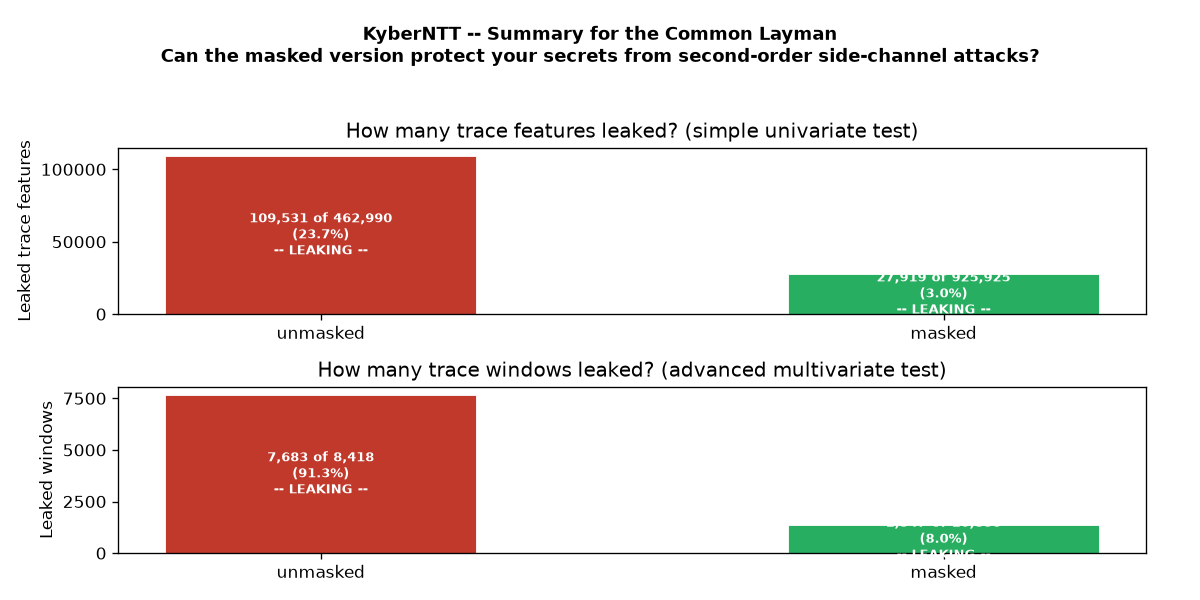
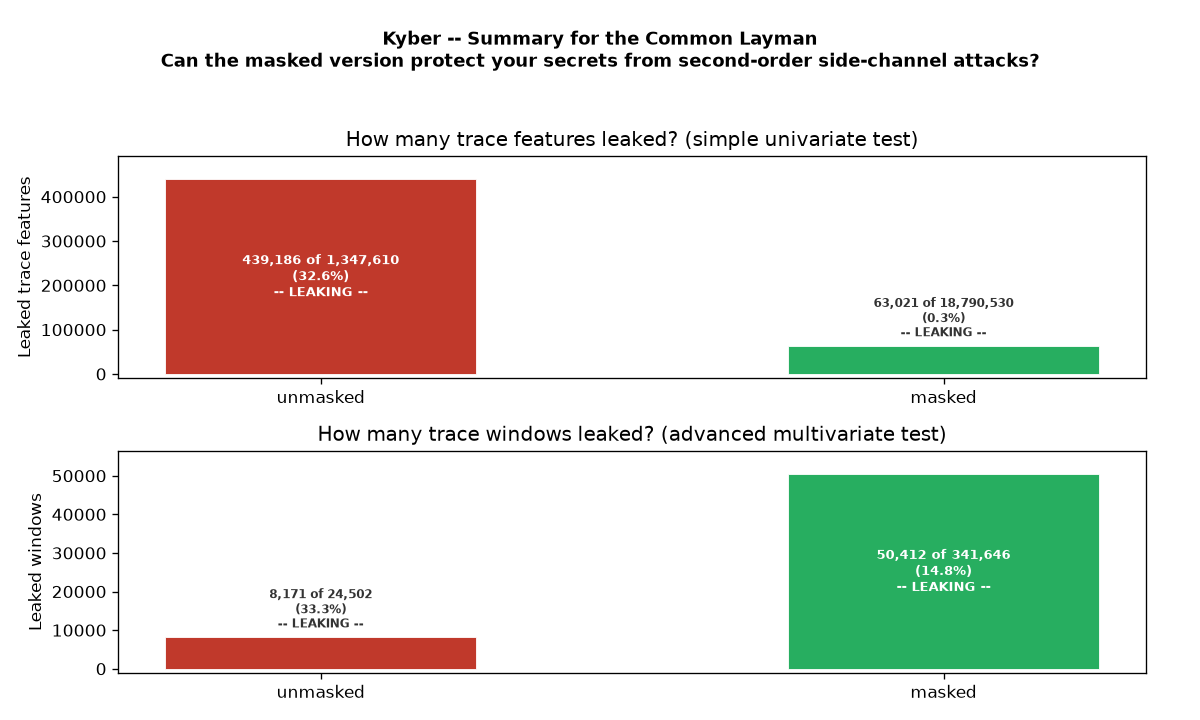
Fix T² plot threshold and summary label layout
- Correct f_critical df2 parameter in make_plots and --plot-second-order-t2:
  use df2=nu (matching count_second_order_multivariate_leakages) instead of
  df2=max(nu-d+1,1) which gave an astronomically high threshold (2.4e+12 vs
  correct 1.05e+03)
- Summary figure: raise inside-bar text threshold to 25%, add white bbox with
  zorder=10 for short-bar labels, increase figure height to 6 inches
- Regenerate all three plots from tvla_stats.npz

diff --git a/tvla_analysis.py b/tvla_analysis.py
@@ -348,7 +348,7 @@ def _make_summary_figure(results, args):
     matplotlib.use("Agg")
     import matplotlib.pyplot as plt
 
-    fig, axes = plt.subplots(2, 1, figsize=(10, 5), sharex=False)
+    fig, axes = plt.subplots(2, 1, figsize=(10, 6), sharex=False)
 
     versions = ["unmasked", "masked"]
     colors = ["#c0392b", "#27ae60"]
@@ -357,6 +357,9 @@ def _make_summary_figure(results, args):
 
     # ---- Panel A: leaked features/points ----
     ax = axes[0]
+    all_uni = [r["univariate"] for r in results.values()]
+    max_uni = max(all_uni) if all_uni else 1
+    barbox = dict(facecolor="white", edgecolor="none", alpha=0.85, pad=1)
     for i, name in enumerate(versions):
         r = results[name]
         n_total = r["t_stats"].shape[0]
@@ -364,11 +367,16 @@ def _make_summary_figure(results, args):
         pct = leaked / n_total * 100 if n_total > 0 else 0
         yval = leaked
         ax.bar(name, yval, color=colors[i], width=0.5, edgecolor="white", linewidth=0.5)
-        ax.text(i, yval / 2,
-                "{:,} of {:,}\n({:.1f}%)\n-- {} --".format(
-                    int(leaked), n_total, pct, "LEAKING" if leaked > 0 else "SAFE"),
-                ha="center", va="center", fontsize=8, color="white" if leaked > 0 else "black", fontweight="bold")
-    ax.set_ylim(0, None)
+        label = "{:,} of {:,}\n({:.1f}%)\n-- {} --".format(
+            int(leaked), n_total, pct, "LEAKING" if leaked > 0 else "SAFE")
+        if yval > max_uni * 0.25:
+            ax.text(i, yval / 2, label, ha="center", va="center", fontsize=8,
+                    color="white", fontweight="bold")
+        else:
+            ax.text(i, yval + max_uni * 0.03, label, ha="center", va="bottom", fontsize=7,
+                    color="#333333", fontweight="bold", bbox=barbox, zorder=10)
+    ymax_a = max(max_uni * 1.12, 1)
+    ax.set_ylim(-ymax_a * 0.02, ymax_a)
     if args.order == 2:
         ax.set_ylabel("Leaked trace features")
         ax.set_title("How many trace features leaked? (simple univariate test)")
@@ -379,18 +387,24 @@ def _make_summary_figure(results, args):
     # ---- Panel B: leaked windows ----
     ax = axes[1]
     max_windows = max(r["n_windows"] for r in results.values())
+    all_mv = [r["multivariate"] for r in results.values()]
+    max_mv = max(all_mv) if all_mv else 1
     for i, name in enumerate(versions):
         r = results[name]
         leaked = r["multivariate"]
         total_w = r["n_windows"]
         pct = leaked / total_w * 100 if total_w > 0 else 0
         ax.bar(name, leaked, color=colors[i], width=0.5, edgecolor="white", linewidth=0.5)
-        ax.text(i, leaked / 2 if leaked > 0 else max_windows * 0.05,
-                "{:,} of {:,}\n({:.1f}%)\n-- {} --".format(
-                    int(leaked), total_w, pct, "LEAKING" if leaked > 0 else "SAFE"),
-                ha="center", va="center", fontsize=8,
-                color="white" if leaked > 0 else "black", fontweight="bold")
-    ax.set_ylim(0, None)
+        label = "{:,} of {:,}\n({:.1f}%)\n-- {} --".format(
+            int(leaked), total_w, pct, "LEAKING" if leaked > 0 else "SAFE")
+        if leaked > max_mv * 0.25:
+            ax.text(i, leaked / 2, label, ha="center", va="center", fontsize=8,
+                    color="white", fontweight="bold")
+        else:
+            ax.text(i, leaked + max_mv * 0.03, label, ha="center", va="bottom", fontsize=7,
+                    color="#333333", fontweight="bold", bbox=barbox, zorder=10)
+    ymax_b = max(max_mv * 1.12, 1)
+    ax.set_ylim(-ymax_b * 0.02, ymax_b)
     ax.set_ylabel("Leaked windows")
     ax.set_xlabel("")
     if args.order == 2:
@@ -530,8 +544,7 @@ def make_plots(results, args):
         n1 = args.nb_fixed
         nu = n0 + n1 - d - 1
         scale = (n0 + n1 - 2) * d / nu if nu > 0 else 1.0
-        f_crit = tvla.f_critical(d, nu - d + 1 if nu - d + 1 > 0 else 1,
-                                 tvla.DEFAULT_ALPHA)
+        f_crit = tvla.f_critical(d, nu, tvla.DEFAULT_ALPHA)
         f_obs = t2_vals / scale
 
         below = f_obs < f_crit
@@ -773,8 +786,7 @@ def main():
                     scale = (n0 + n1 - 2) * d / nu
                 else:
                     scale = 1.0
-                f_crit = tvla.f_critical(d, nu - d + 1 if nu - d + 1 > 0 else 1,
-                                         tvla.DEFAULT_ALPHA)
+                f_crit = tvla.f_critical(d, nu, tvla.DEFAULT_ALPHA)
                 t2_threshold = f_crit * scale
 
                 t_stats_label = "Welch |t|"
